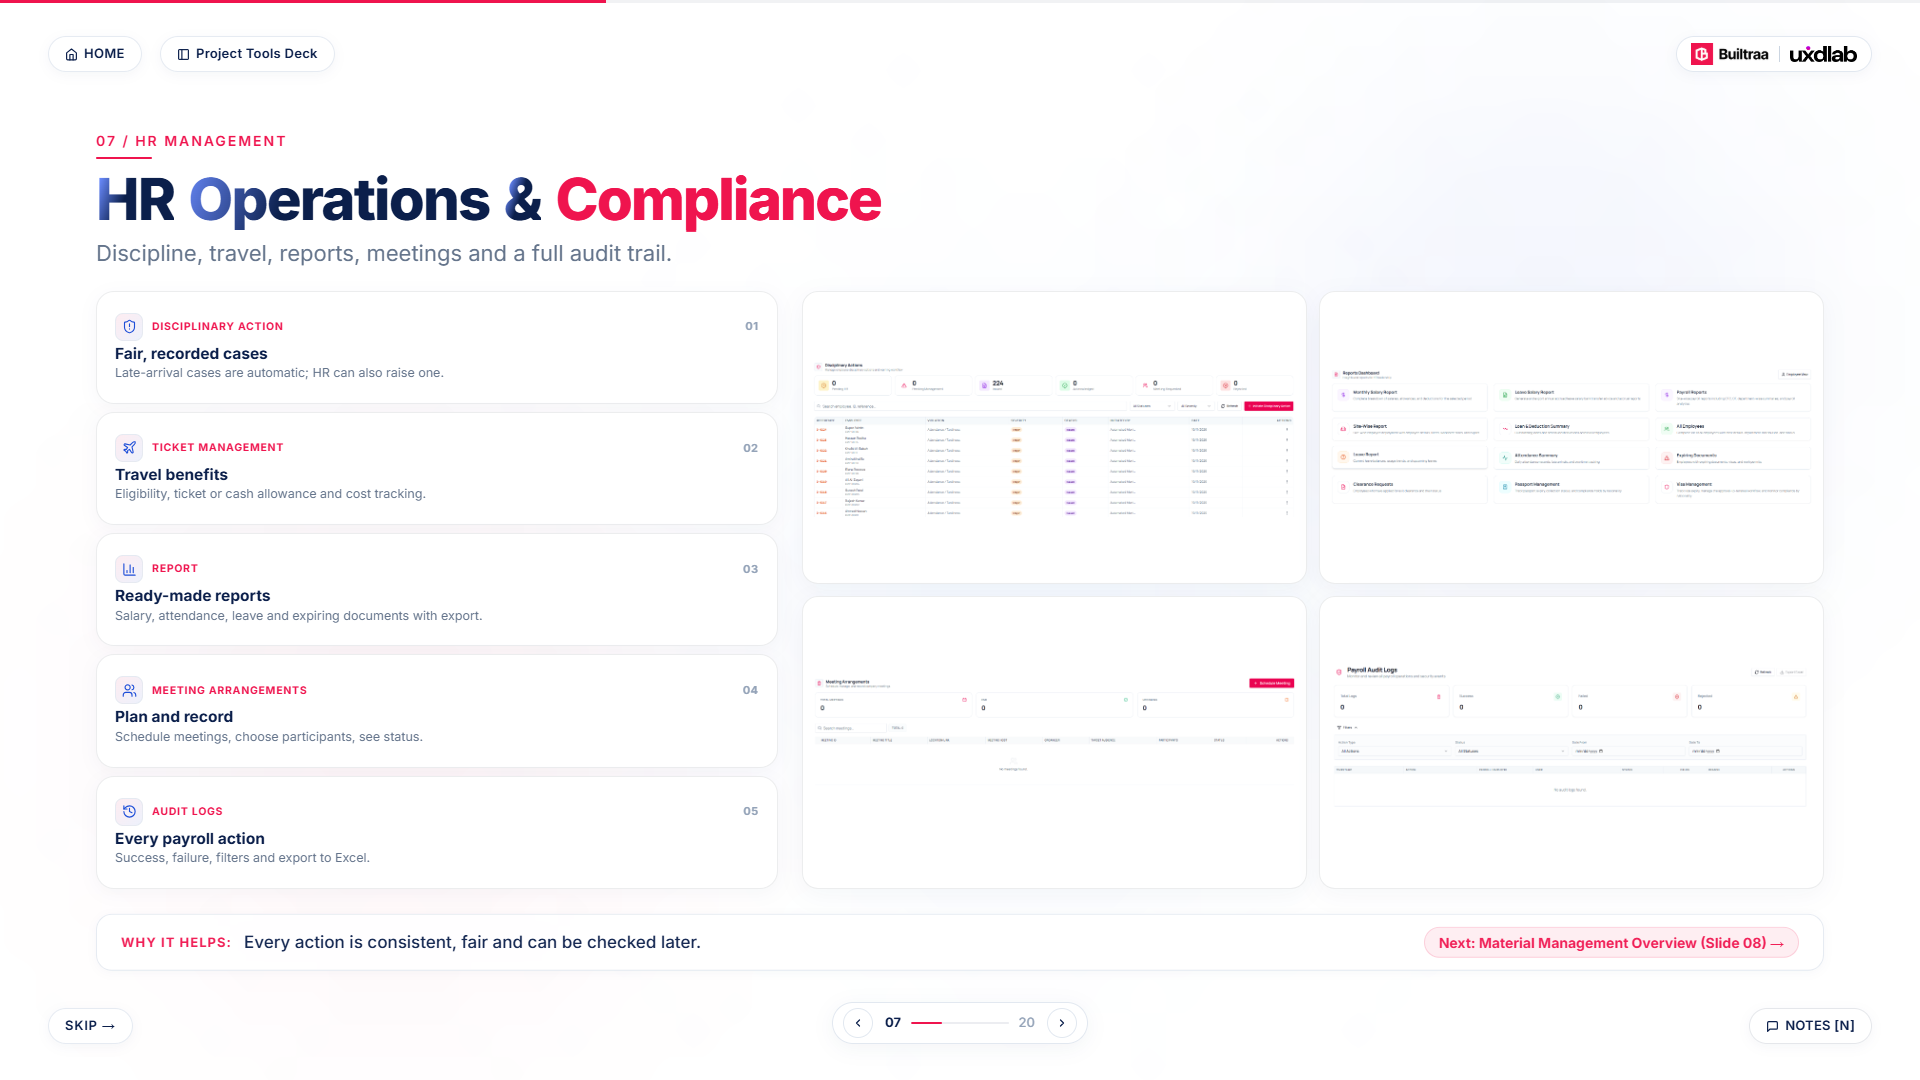
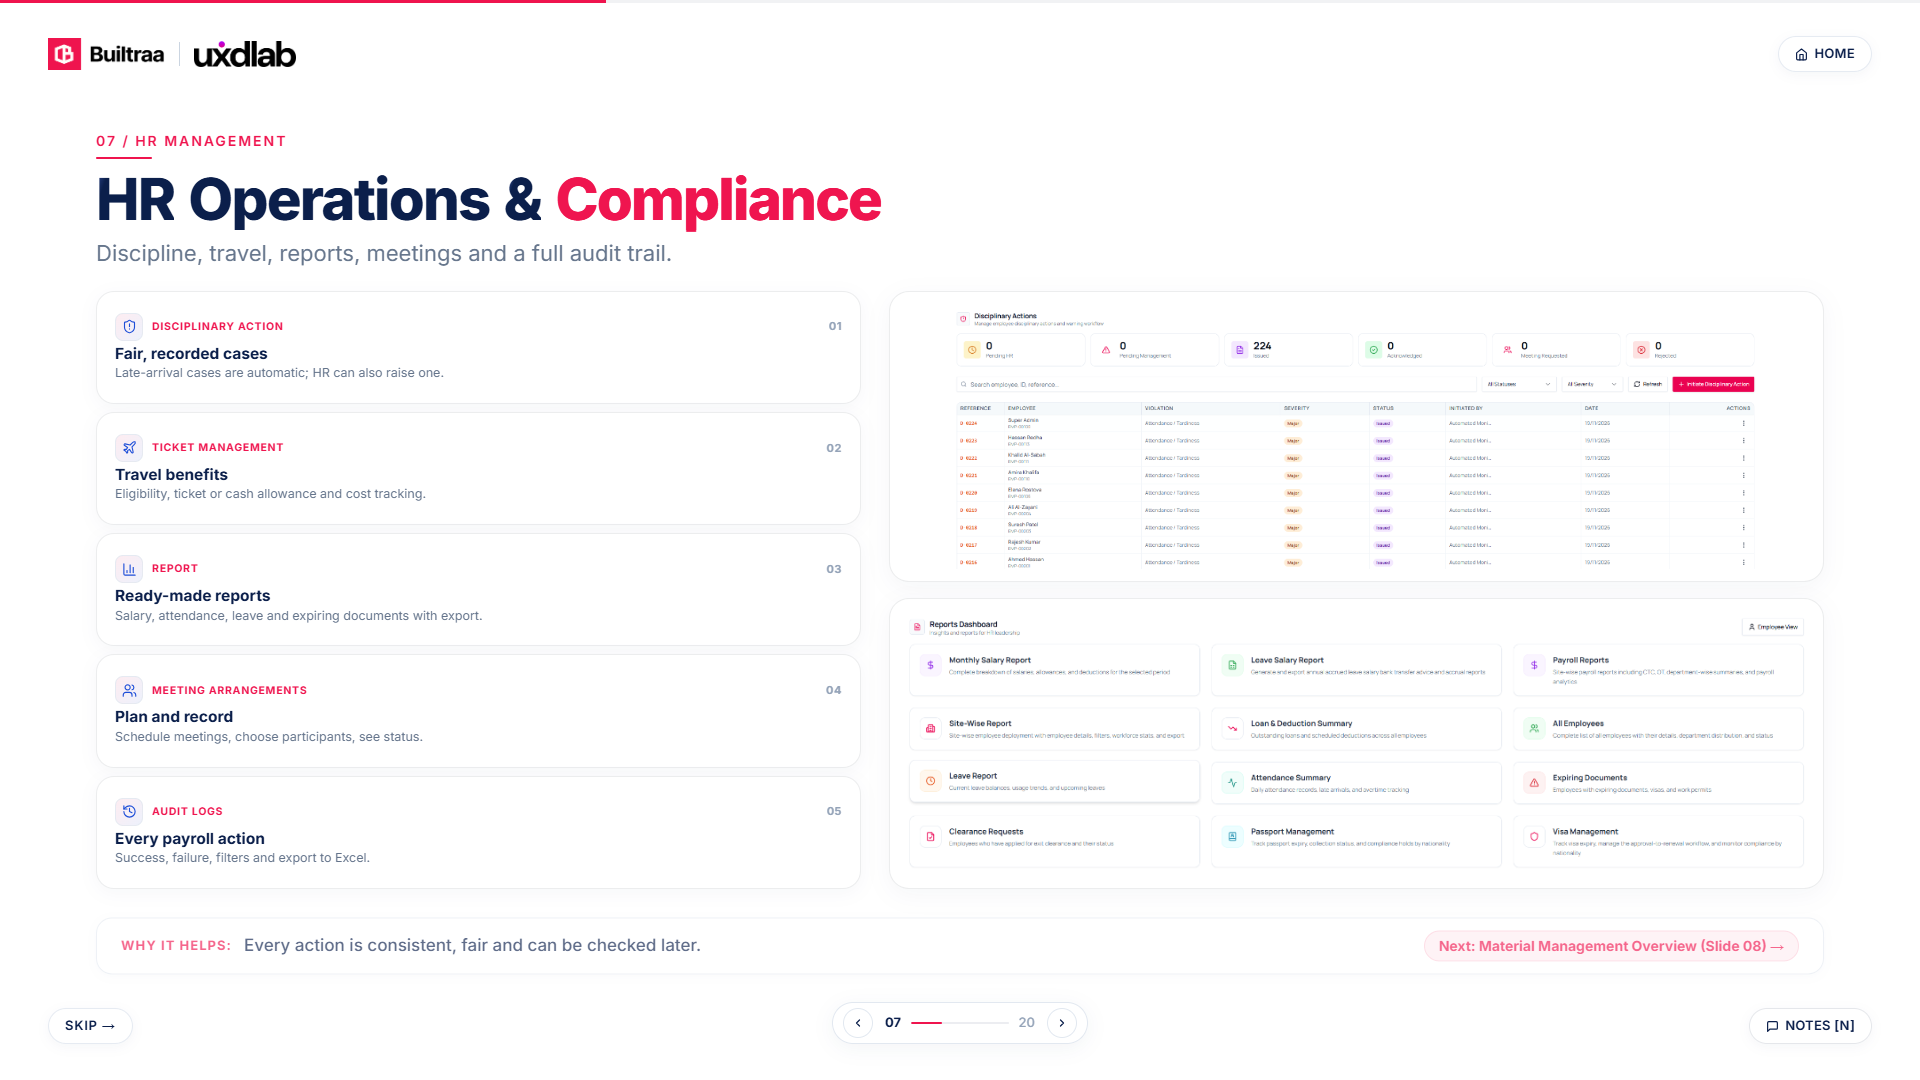
upated

diff --git a/src/slides/Slide13.jsx b/src/slides/Slide13.jsx
@@ -1,194 +1,6 @@
 import React from 'react';
-import {
-  SlideLayout,
-  SlideTitle,
-  WhyItHelpsStrip,
-} from '../components/shared';
-import { SLIDES_DATA } from '../slidesData';
+import ModuleSlide from '../components/ModuleSlide';
 
-// Slide 13 clean feature card matching Slide 2–7 style
-function Slide13FeatureCard({ icon: Icon, number, moduleLabel, title, text }) {
-  return (
-    <div
-      style={{
-        position: 'relative',
-        borderRadius: 20,
-        padding: '16px 20px',
-        border: '1px solid rgba(15, 23, 42, 0.08)',
-        background: '#FFFFFF',
-        boxShadow: '0 6px 24px rgba(11, 31, 75, 0.04)',
-        display: 'flex',
-        flexDirection: 'column',
-        justifyContent: 'center',
-        flex: 1,
-        minHeight: 0,
-        overflow: 'hidden',
-        boxSizing: 'border-box',
-      }}
-    >
-      {/* Header: Icon chip + Module Label (left) + Number (right) */}
-      <div style={{
-        display: 'flex',
-        alignItems: 'center',
-        justifyContent: 'space-between',
-        marginBottom: 6,
-      }}>
-        <div style={{ display: 'flex', alignItems: 'center', gap: 10 }}>
-          {Icon && (
-            <div style={{
-              width: 32,
-              height: 32,
-              borderRadius: 9,
-              background: 'linear-gradient(135deg, rgba(239, 20, 78, 0.08) 0%, rgba(29, 78, 216, 0.08) 100%)',
-              border: '1px solid rgba(226, 232, 240, 0.8)',
-              display: 'flex',
-              alignItems: 'center',
-              justifyContent: 'center',
-              flexShrink: 0,
-            }}>
-              <Icon size={17} color="#1D4ED8" strokeWidth={1.8} />
-            </div>
-          )}
-
-          {moduleLabel && (
-            <span style={{
-              fontSize: 11.5,
-              fontWeight: 700,
-              color: '#EF144E',
-              textTransform: 'uppercase',
-              letterSpacing: '0.08em',
-              fontFamily: "'Inter', sans-serif",
-            }}>
-              {moduleLabel}
-            </span>
-          )}
-        </div>
-
-        <span style={{
-          fontSize: 12,
-          fontWeight: 700,
-          color: '#94A3B8',
-          fontFamily: "'Inter', sans-serif",
-          letterSpacing: '0.05em',
-        }}>
-          {number}
-        </span>
-      </div>
-
-      {/* Card Title */}
-      <div style={{
-        fontSize: 17.5,
-        fontWeight: 700,
-        color: '#0B1F4B',
-        lineHeight: 1.25,
-        marginBottom: 4,
-        fontFamily: "'Inter', sans-serif",
-      }}>
-        {title}
-      </div>
-
-      {/* Card Text */}
-      <div style={{
-        fontSize: 13.5,
-        fontWeight: 400,
-        color: '#64748B',
-        lineHeight: 1.38,
-        fontFamily: "'Inter', sans-serif",
-      }}>
-        {text}
-      </div>
-    </div>
-  );
-}
-
-export default function Slide13({ slideNumber = 13, totalSlides = 20, onNavigate }) {
-  const slideData = SLIDES_DATA.find((s) => s.slideNumber === 13);
-
-  if (!slideData) {
-    return <div>Slide 13 not found</div>;
-  }
-
-  // Next slide calculation
-  let nextSlide = null;
-  const nextData = SLIDES_DATA.find((s) => s.slideNumber === 14);
-  if (nextData) {
-    const nextTitle = nextData.sectionName ||
-      (nextData.titleNavy ? `${nextData.titleNavy} ${nextData.titleBrand || ''}`.trim() : 'Next');
-    nextSlide = {
-      number: 14,
-      title: nextTitle,
-      index: 13,
-    };
-  }
-
-  return (
-    <SlideLayout
-      slideNumber={slideNumber}
-      totalSlides={totalSlides}
-      speakerNotes={slideData.speakerNotes}
-    >
-      {/* Title Block */}
-      <SlideTitle
-        eyebrow={slideData.eyebrow}
-        titleNavy={slideData.titleNavy}
-        titleBrand={slideData.titleBrand}
-        titleNavyAfter={slideData.titleNavyAfter}
-        intro={slideData.intro}
-        slideIndex={slideNumber}
-      />
-
-      {/* Main 2-Column Grid: Left Feature Cards (45%), Right Screenshot Card (55%) */}
-      <div style={{
-        display: 'flex',
-        gap: 28,
-        flex: 1,
-        alignItems: 'stretch',
-        minHeight: 0,
-        margin: '6px 0',
-      }}>
-        {/* Left Column: 3 Clean Feature Cards */}
-        <div style={{
-          width: '45%',
-          display: 'flex',
-          flexDirection: 'column',
-          gap: 12,
-          justifyContent: 'space-between',
-        }}>
-          {slideData.cards && slideData.cards.map((card, idx) => (
-            <Slide13FeatureCard
-              key={card.number || idx}
-              icon={card.icon}
-              number={card.number}
-              moduleLabel={card.moduleLabel}
-              title={card.title}
-              text={card.text}
-            />
-          ))}
-        </div>
-
-        {/* Right Column: Screenshot Card (Replaces Step-by-step panel) */}
-        <div style={{
-          width: '55%',
-          display: 'flex',
-          height: '100%',
-        }}>
-          <div className="shot-card" style={{ height: '100%', width: '100%', padding: 14 }}>
-            <img
-              src="/assets/slide13/project-overview.png"
-              alt="Builtraa Project Management Overview Dashboard"
-              className="shot-card__img"
-              loading="eager"
-            />
-          </div>
-        </div>
-      </div>
-
-      {/* Bottom: "Why it helps" One-Line Strip */}
-      <WhyItHelpsStrip
-        text={slideData.whyItHelps}
-        nextSlide={nextSlide}
-        onNavigate={onNavigate}
-      />
-    </SlideLayout>
-  );
+export default function Slide13(props) {
+  return <ModuleSlide slideNumber={13} {...props} />;
 }

diff --git a/src/slides/Slide7.jsx b/src/slides/Slide7.jsx
@@ -137,10 +137,10 @@ export default function Slide7({ slideNumber = 7, totalSlides = 20, onNavigate }
         slideIndex={slideNumber}
       />
 
-      {/* Main 2-Column Grid: Left Feature Cards (40%), Right 4 Screenshots 2x2 Grid (60%) */}
+      {/* Main 2-Column Grid: Left Feature Cards (45%), Right Screenshot Cards (55%) */}
       <div style={{
         display: 'flex',
-        gap: 24,
+        gap: 28,
         flex: 1,
         alignItems: 'stretch',
         minHeight: 0,
@@ -148,7 +148,7 @@ export default function Slide7({ slideNumber = 7, totalSlides = 20, onNavigate }
       }}>
         {/* Left Column: 5 Clean Feature Cards */}
         <div style={{
-          width: '40%',
+          width: '45%',
           display: 'flex',
           flexDirection: 'column',
           gap: 8,
@@ -166,17 +166,10 @@ export default function Slide7({ slideNumber = 7, totalSlides = 20, onNavigate }
           ))}
         </div>
 
-        {/* Right Column: 2x2 Grid of 4 High-Resolution Screenshot Cards */}
-        <div style={{
-          width: '60%',
-          display: 'grid',
-          gridTemplateColumns: 'repeat(2, 1fr)',
-          gridTemplateRows: 'repeat(2, 1fr)',
-          gap: 12,
-          height: '100%',
-        }}>
+        {/* Right Column: Two High-Resolution Screenshot Cards (Exactly like Slide 3) */}
+        <div className="shot-cards-container">
           {/* Card 1: Disciplinary Actions */}
-          <div className="shot-card" style={{ borderRadius: 16, padding: 8 }}>
+          <div className="shot-card">
             <img
               src="/assets/slide7/disciplinary-actions.png"
               alt="Builtraa Disciplinary Actions Dashboard"
@@ -186,30 +179,10 @@ export default function Slide7({ slideNumber = 7, totalSlides = 20, onNavigate }
           </div>
 
           {/* Card 2: Reports Dashboard */}
-          <div className="shot-card" style={{ borderRadius: 16, padding: 8 }}>
+          <div className="shot-card">
             <img
               src="/assets/slide7/reports-dashboard.png"
               alt="Builtraa Reports Dashboard"
-              className="shot-card__img"
-              loading="eager"
-            />
-          </div>
-
-          {/* Card 3: Meeting Arrangements */}
-          <div className="shot-card" style={{ borderRadius: 16, padding: 8 }}>
-            <img
-              src="/assets/slide7/meeting-arrangements.png"
-              alt="Builtraa Meeting Arrangements"
-              className="shot-card__img"
-              loading="eager"
-            />
-          </div>
-
-          {/* Card 4: Payroll Audit Logs */}
-          <div className="shot-card" style={{ borderRadius: 16, padding: 8 }}>
-            <img
-              src="/assets/slide7/payroll-audit-logs.png"
-              alt="Builtraa Payroll Audit Logs"
               className="shot-card__img"
               loading="eager"
             />
